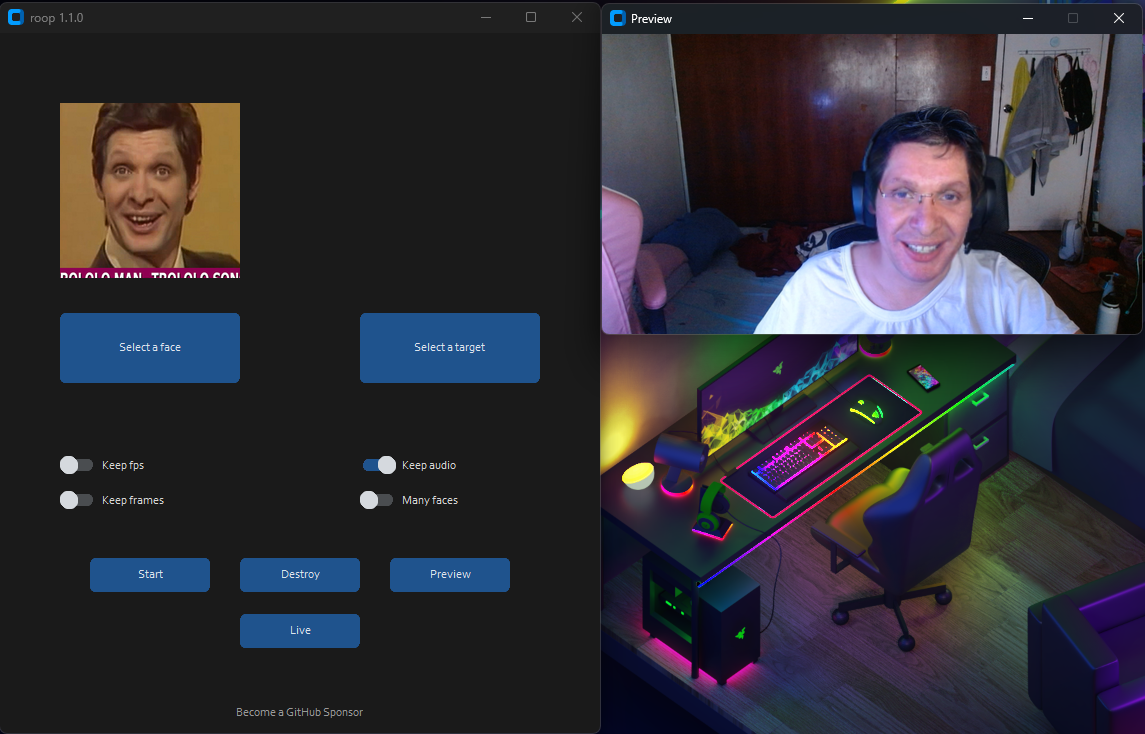
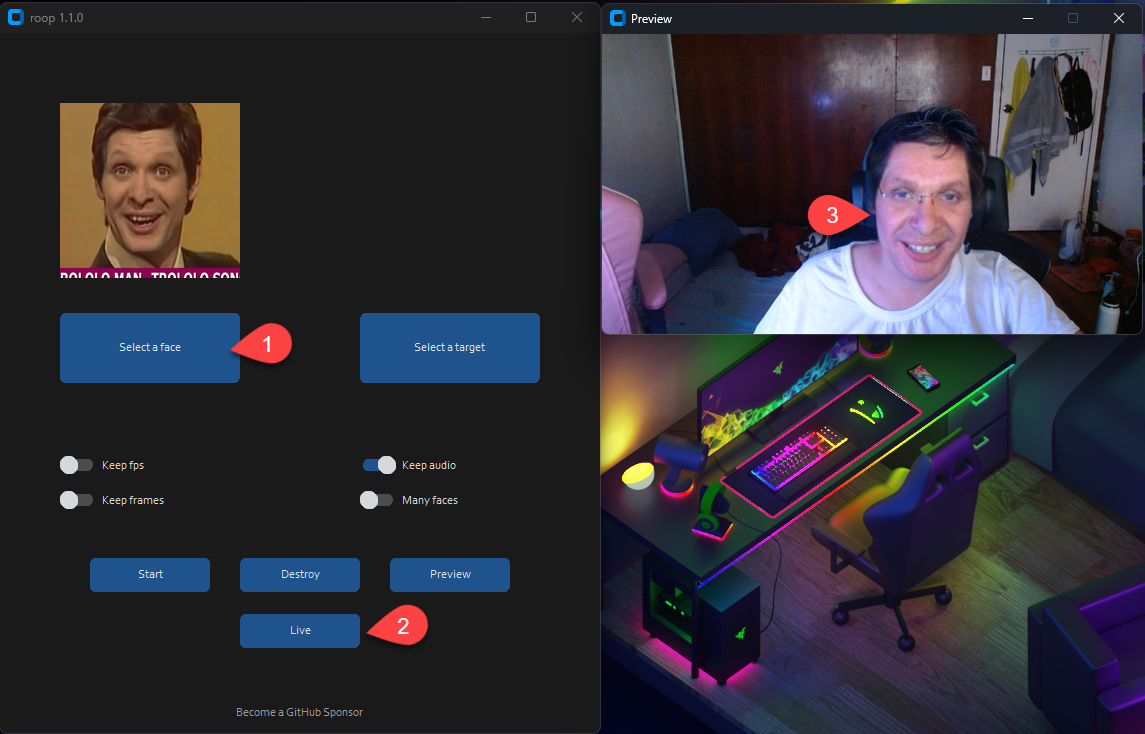
added instruction on how to use it

Changed region(s): [[0.3057, 0.8093, 0.3974, 0.8992], [0.1834, 0.4196, 0.2751, 0.5095], [0.7031, 0.2698, 0.7642, 0.3297]]

diff --git a/README.md b/README.md
@@ -27,6 +27,14 @@ Executing `python run.py` command will launch this window:
 
 Choose a face (image with desired face) and the target image/video (image/video in which you want to replace the face) and click on `Start`. Open file explorer and navigate to the directory you select your output to be in. You will find a directory named `<video_title>` where you can see the frames being swapped in realtime. Once the processing is done, it will create the output file. That's it.
 
+## For the webcam mode
+Just follow the clicks on the screenshot
+1. Select a face
+2. Click live
+3. Wait for a few second (it takes a longer time, usually 10 to 30 seconds before the preview shows up)
+
+Just use your favorite screencapture to stream like OBS
+
 Additional command line arguments are given below. To learn out what they do, check [this guide](https://github.com/s0md3v/roop/wiki/Advanced-Options).
 
 ```
